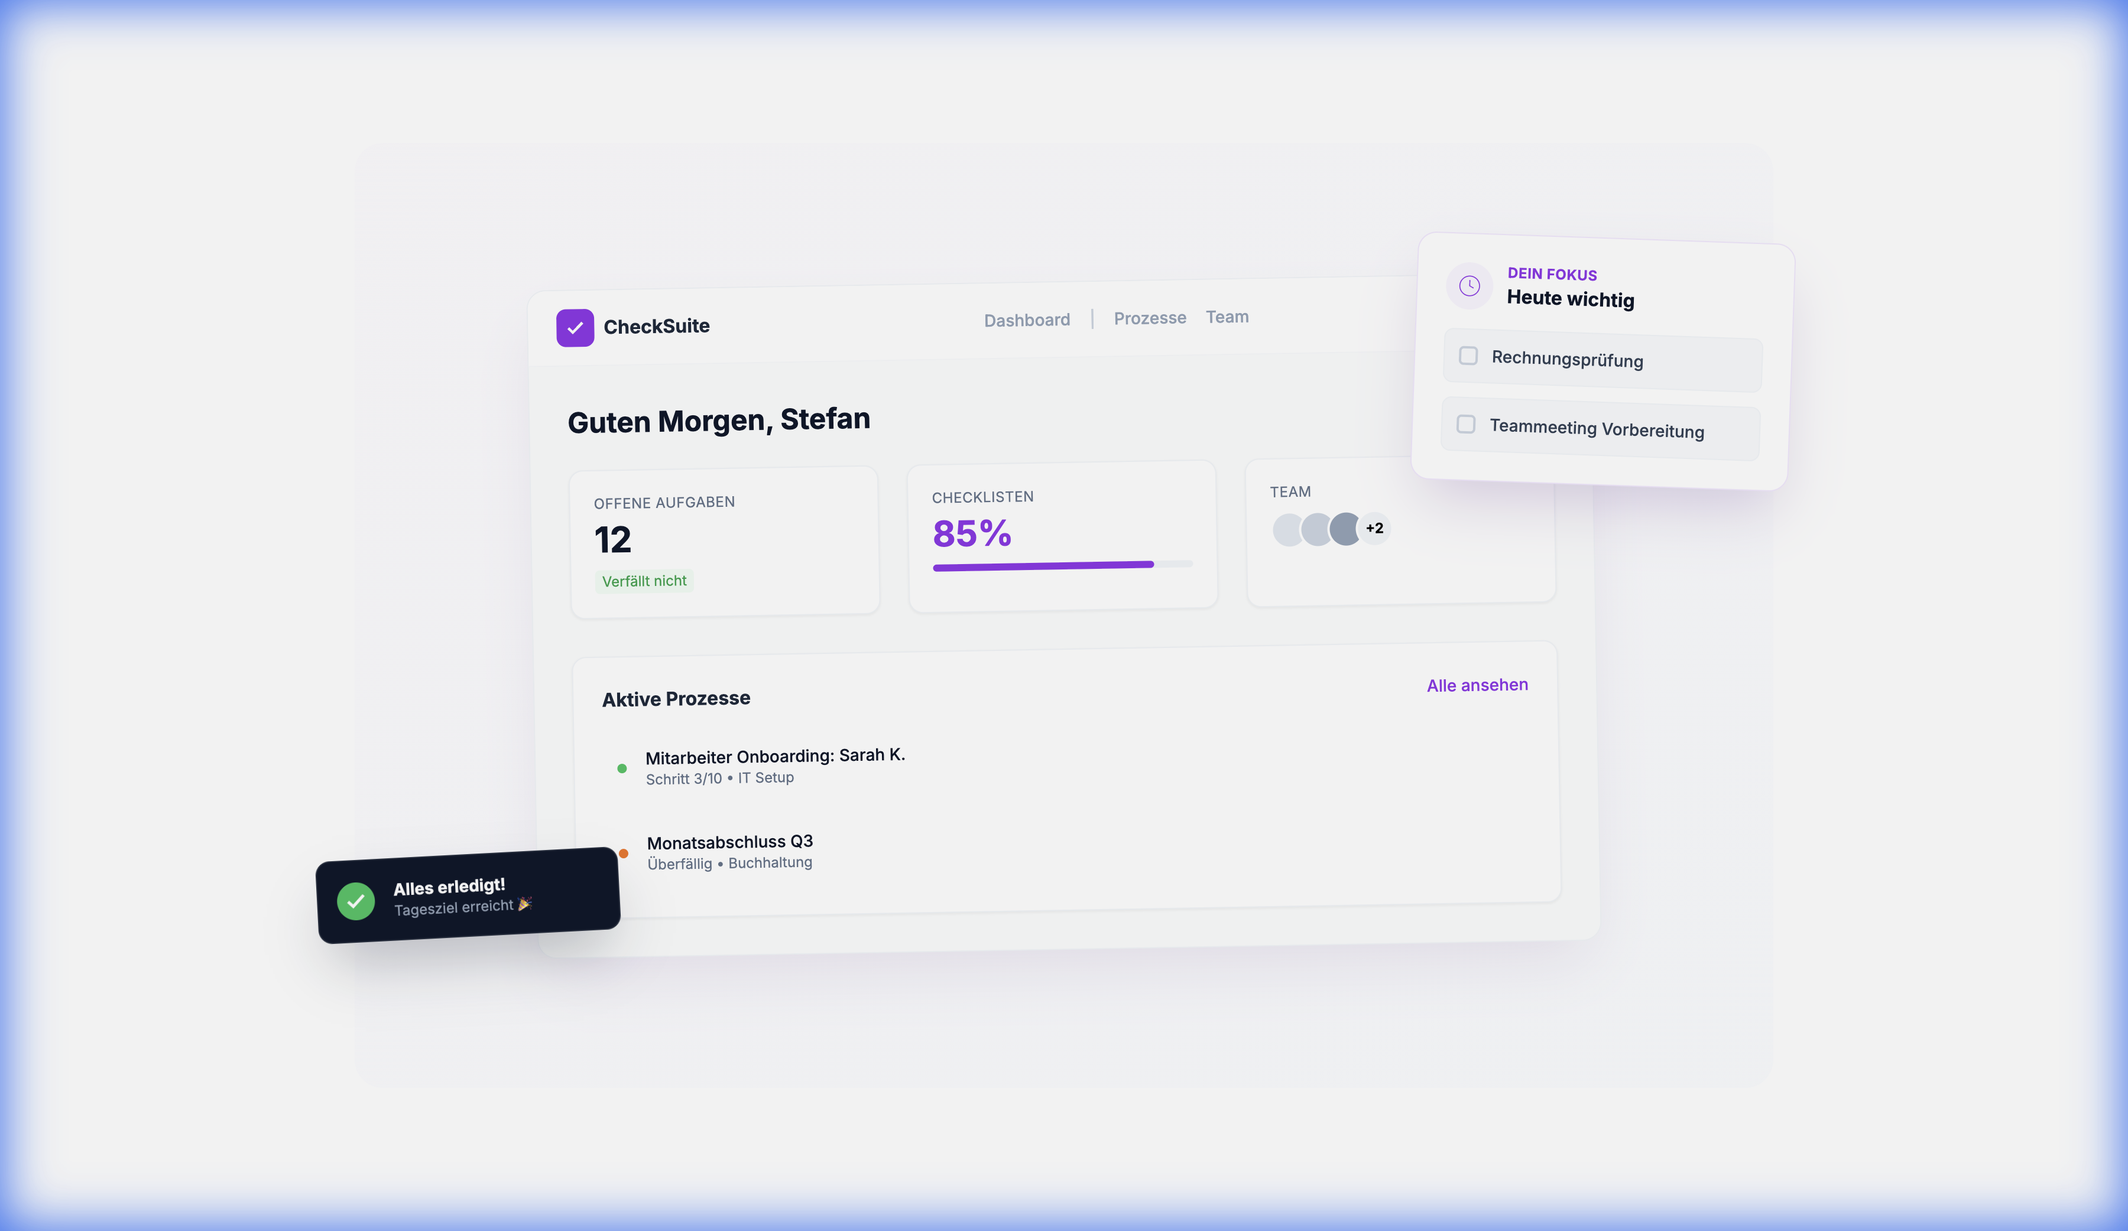
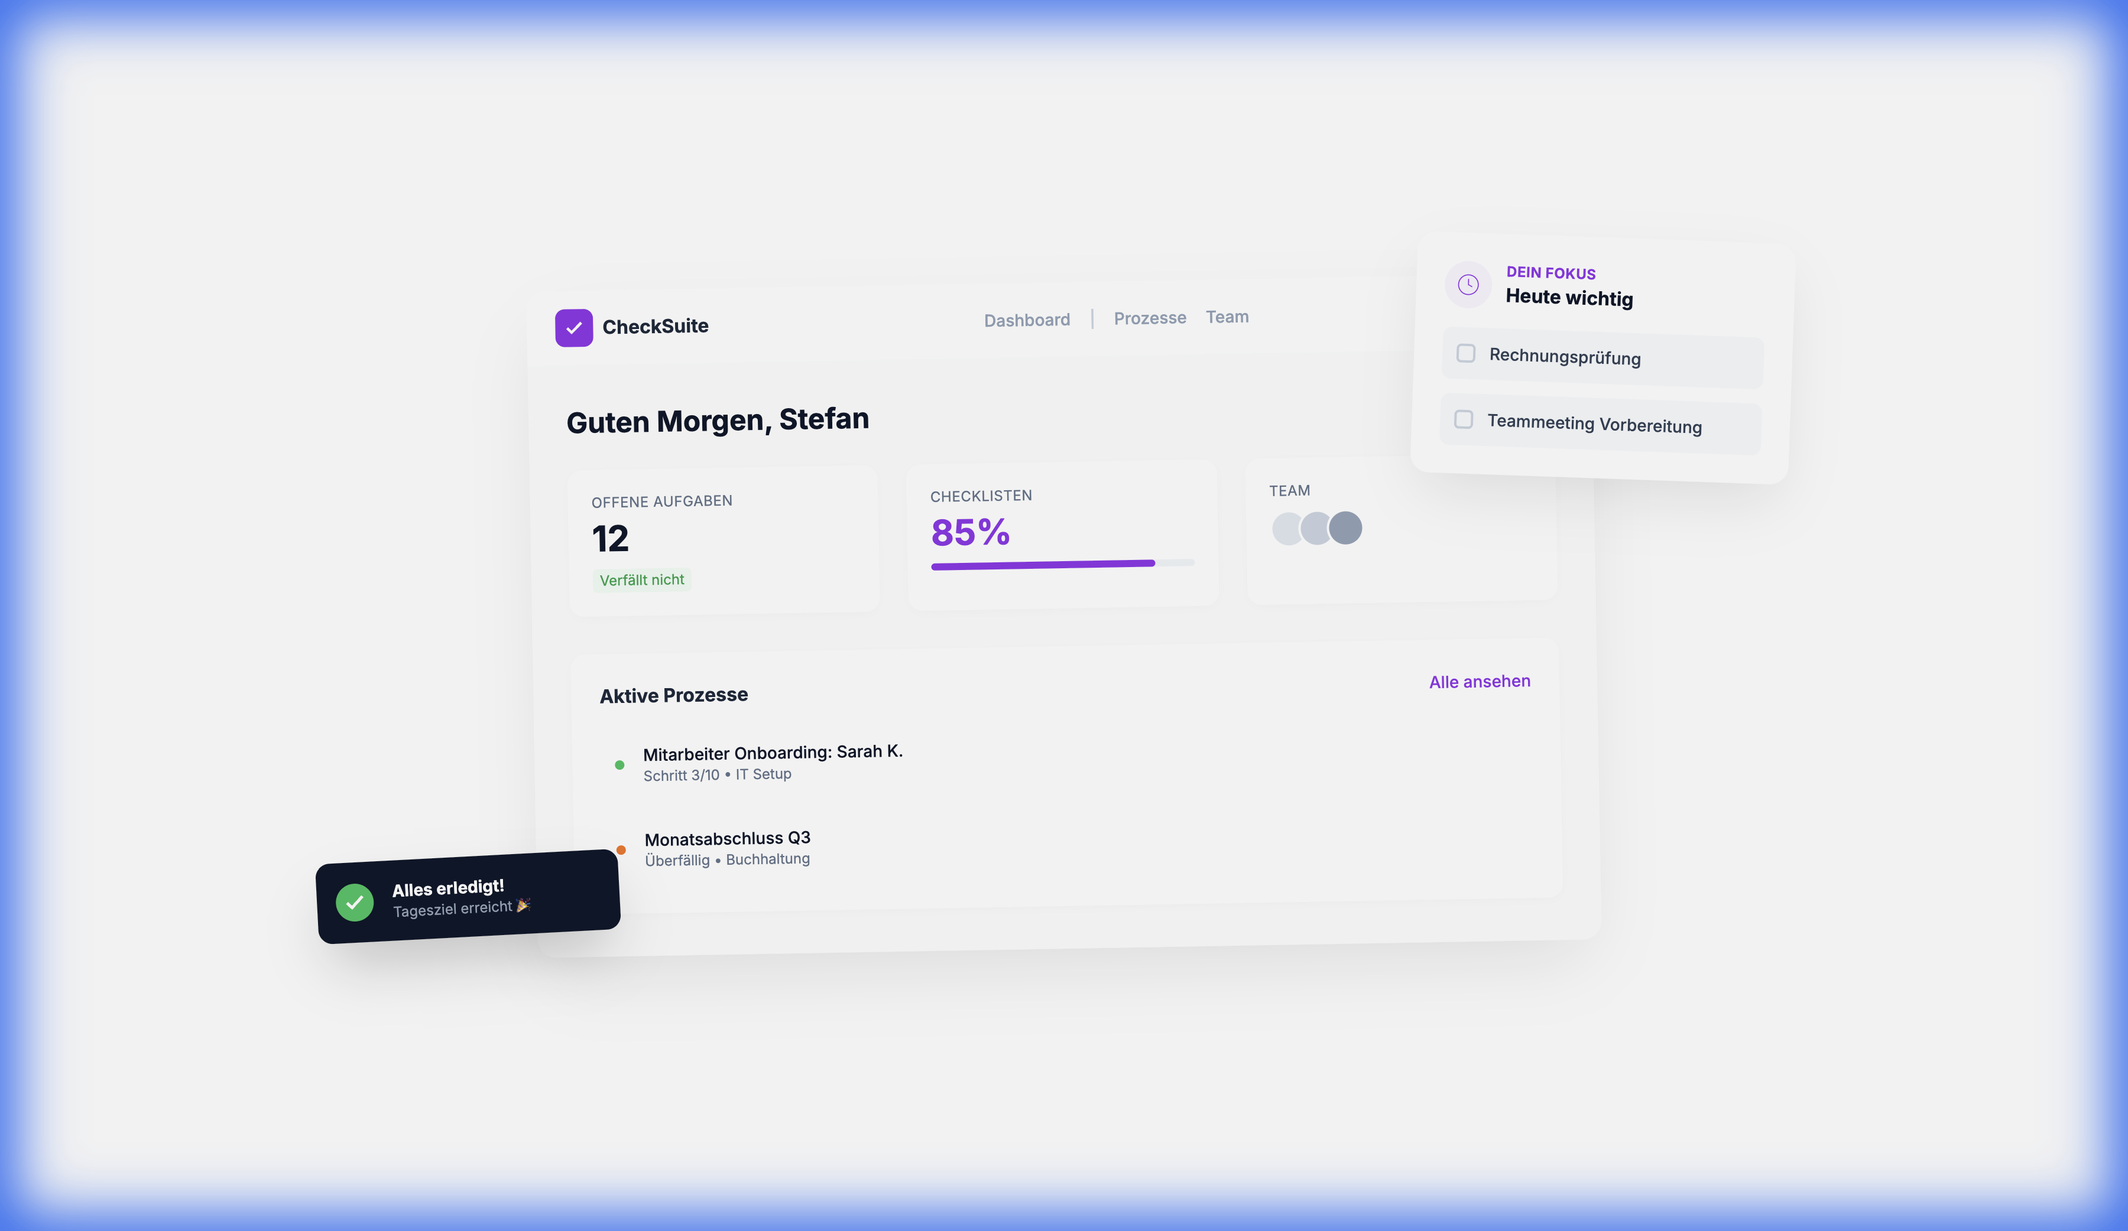
Final Polish: Strictly borderless SaaS visuals

diff --git a/public/scene_hero.html b/public/scene_hero.html
@@ -1,0 +1,153 @@
+<!DOCTYPE html>
+<html lang="de">
+
+<head>
+    <meta charset="UTF-8">
+    <meta name="viewport" content="width=1440, initial-scale=1.0">
+    <script src="https://cdn.tailwindcss.com"></script>
+    <link href="https://fonts.googleapis.com/css2?family=Inter:wght@400;500;600;700&display=swap" rel="stylesheet">
+    <style>
+        body {
+            font-family: 'Inter', sans-serif;
+        }
+
+        .glass {
+            background: rgba(255, 255, 255, 0.7);
+            backdrop-filter: blur(10px);
+        }
+    </style>
+</head>
+
+<body class="bg-white h-screen flex items-center justify-center overflow-hidden">
+
+    <!-- Scene Container -->
+    <div class="relative w-[1200px] h-[800px] flex items-center justify-center">
+
+        <!-- Main Dashboard Card - STRICTLY NO BORDER, Minimal Shadow -->
+        <div
+            class="relative w-[900px] bg-white rounded-2xl shadow-[0_25px_60px_-15px_rgba(0,0,0,0.1)] overflow-hidden transform -rotate-1 transition-transform">
+            <!-- Header -->
+            <div class="h-16 flex items-center px-6 justify-between bg-white border-b border-slate-50/50">
+                <div class="flex items-center gap-2">
+                    <div class="w-8 h-8 bg-purple-600 rounded-lg flex items-center justify-center text-white font-bold">
+                        <svg width="18" height="18" viewBox="0 0 24 24" fill="none" stroke="currentColor"
+                            stroke-width="3">
+                            <polyline points="20 6 9 17 4 12"></polyline>
+                        </svg>
+                    </div>
+                    <span class="font-bold text-slate-800">CheckSuite</span>
+                </div>
+                <div class="flex gap-4 text-sm font-medium text-slate-400">
+                    <span>Dashboard</span>
+                    <span class="text-slate-300">|</span>
+                    <span>Prozesse</span>
+                    <span>Team</span>
+                </div>
+                <div class="w-8 h-8 rounded-full bg-slate-100"></div>
+            </div>
+
+            <!-- Dashboard Content -->
+            <div class="p-8 bg-[#fafafa]/50 min-h-[500px]">
+                <h2 class="text-2xl font-bold text-slate-900 mb-6">Guten Morgen, Stefan</h2>
+
+                <div class="grid grid-cols-3 gap-6 mb-8">
+                    <!-- Stat 1 -->
+                    <div class="bg-white p-5 rounded-xl shadow-[0_2px_10px_-5px_rgba(0,0,0,0.05)]">
+                        <p class="text-xs text-slate-500 uppercase tracking-wide mb-1">Offene Aufgaben</p>
+                        <p class="text-3xl font-bold text-slate-900">12</p>
+                        <div class="mt-2 text-xs text-green-600 flex items-center gap-1">
+                            <span class="bg-green-50 px-1.5 py-0.5 rounded">Verfällt nicht</span>
+                        </div>
+                    </div>
+                    <!-- Stat 2 -->
+                    <div class="bg-white p-5 rounded-xl shadow-[0_2px_10px_-5px_rgba(0,0,0,0.05)]">
+                        <p class="text-xs text-slate-500 uppercase tracking-wide mb-1">Checklisten</p>
+                        <p class="text-3xl font-bold text-purple-600">85%</p>
+                        <div class="mt-2 w-full bg-slate-100 h-1.5 rounded-full overflow-hidden">
+                            <div class="bg-purple-600 w-[85%] h-full rounded-full"></div>
+                        </div>
+                    </div>
+                    <!-- Stat 3 -->
+                    <div class="bg-white p-5 rounded-xl shadow-[0_2px_10px_-5px_rgba(0,0,0,0.05)]">
+                        <p class="text-xs text-slate-500 uppercase tracking-wide mb-1">Team</p>
+                        <div class="flex -space-x-2 mt-2">
+                            <div class="w-8 h-8 rounded-full bg-slate-200 border-2 border-white"></div>
+                            <div class="w-8 h-8 rounded-full bg-slate-300 border-2 border-white"></div>
+                            <div class="w-8 h-8 rounded-full bg-slate-400 border-2 border-white"></div>
+                        </div>
+                    </div>
+                </div>
+
+                <div class="bg-white rounded-xl shadow-[0_2px_10px_-5px_rgba(0,0,0,0.05)] p-6">
+                    <div class="flex items-center justify-between mb-4">
+                        <h3 class="font-bold text-slate-800">Aktive Prozesse</h3>
+                        <button class="text-purple-600 text-sm font-medium">Alle ansehen</button>
+                    </div>
+                    <div class="space-y-3">
+                        <div
+                            class="flex items-center p-3 hover:bg-slate-50 rounded-lg transition-colors cursor-pointer group">
+                            <div class="w-2 h-2 rounded-full bg-green-500 mr-4"></div>
+                            <div class="flex-1">
+                                <p class="text-sm font-medium text-slate-900">Mitarbeiter Onboarding: Sarah K.</p>
+                                <p class="text-xs text-slate-500">Schritt 3/10 • IT Setup</p>
+                            </div>
+                        </div>
+                        <div
+                            class="flex items-center p-3 hover:bg-slate-50 rounded-lg transition-colors cursor-pointer group">
+                            <div class="w-2 h-2 rounded-full bg-orange-500 mr-4"></div>
+                            <div class="flex-1">
+                                <p class="text-sm font-medium text-slate-900">Monatsabschluss Q3</p>
+                                <p class="text-xs text-slate-500">Überfällig • Buchhaltung</p>
+                            </div>
+                        </div>
+                    </div>
+                </div>
+            </div>
+        </div>
+
+        <!-- Floating Item 1: Focus Card (Right) -->
+        <div
+            class="absolute top-20 -right-4 bg-white p-6 rounded-2xl shadow-[0_20px_50px_-10px_rgba(0,0,0,0.1)] w-80 transform rotate-2">
+            <div class="flex items-center gap-3 mb-4">
+                <div class="w-10 h-10 rounded-full bg-purple-50 flex items-center justify-center text-purple-600">
+                    <svg class="w-5 h-5" fill="none" stroke="currentColor" viewBox="0 0 24 24">
+                        <circle cx="12" cy="12" r="10"></circle>
+                        <polyline points="12 6 12 12 16 14"></polyline>
+                    </svg>
+                </div>
+                <div>
+                    <p class="text-xs font-bold text-purple-600 uppercase tracking-wide">Dein Fokus</p>
+                    <p class="font-bold text-slate-900">Heute wichtig</p>
+                </div>
+            </div>
+            <div class="space-y-3">
+                <div class="flex items-center gap-3 p-3 bg-slate-50 rounded-lg">
+                    <div class="w-4 h-4 rounded border-2 border-slate-300"></div>
+                    <span class="text-sm font-medium text-slate-700">Rechnungsprüfung</span>
+                </div>
+                <div class="flex items-center gap-3 p-3 bg-slate-50 rounded-lg">
+                    <div class="w-4 h-4 rounded border-2 border-slate-300"></div>
+                    <span class="text-sm font-medium text-slate-700">Teammeeting Vorbereitung</span>
+                </div>
+            </div>
+        </div>
+
+        <!-- Floating Item 2: Success Toast (Bottom Left) -->
+        <div
+            class="absolute bottom-32 -left-8 bg-slate-900 text-white p-4 rounded-xl shadow-2xl w-64 flex items-center gap-4 transform -rotate-3">
+            <div class="w-8 h-8 bg-green-500 rounded-full flex items-center justify-center text-white">
+                <svg class="w-5 h-5" fill="none" stroke="currentColor" viewBox="0 0 24 24" stroke-width="3">
+                    <polyline points="20 6 9 17 4 12"></polyline>
+                </svg>
+            </div>
+            <div>
+                <p class="text-sm font-bold">Alles erledigt!</p>
+                <p class="text-xs text-slate-400">Tagesziel erreicht 🎉</p>
+            </div>
+        </div>
+
+    </div>
+
+</body>
+
+</html>

diff --git a/public/scene_checklist.html b/public/scene_checklist.html
@@ -1,0 +1,110 @@
+<!DOCTYPE html>
+<html lang="de">
+
+<head>
+    <meta charset="UTF-8">
+    <meta name="viewport" content="width=1440, initial-scale=1.0">
+    <script src="https://cdn.tailwindcss.com"></script>
+    <link href="https://fonts.googleapis.com/css2?family=Inter:wght@400;500;600;700&display=swap" rel="stylesheet">
+    <style>
+        body {
+            font-family: 'Inter', sans-serif;
+        }
+    </style>
+</head>
+
+<body class="bg-white h-screen flex items-center justify-center overflow-hidden">
+
+    <!-- Scene Container -->
+    <div class="relative w-[1000px] h-[800px] flex items-center justify-center">
+
+        <!-- Main List Card - STRICTLY NO BORDER, Minimal Shadow -->
+        <div class="relative w-[600px] bg-white rounded-2xl shadow-[0_25px_60px_-15px_rgba(0,0,0,0.1)] overflow-hidden">
+
+            <!-- Progress Header -->
+            <div class="p-6 bg-[#fafafa]/30">
+                <div class="flex justify-between items-end mb-2">
+                    <div>
+                        <span class="text-xs font-bold text-slate-400 uppercase tracking-wide">Onboarding Prozess</span>
+                        <h2 class="text-xl font-bold text-slate-900 mt-1">Neue Mitarbeiter: Peter M.</h2>
+                    </div>
+                    <div class="text-right">
+                        <span class="text-2xl font-bold text-purple-600">60%</span>
+                    </div>
+                </div>
+                <div class="w-full h-2 bg-slate-100 rounded-full overflow-hidden">
+                    <div class="w-[60%] h-full bg-purple-600 rounded-full"></div>
+                </div>
+            </div>
+
+            <!-- List Items -->
+            <div class="p-6 space-y-4">
+
+                <!-- Completed Item (Faded) -->
+                <div class="flex items-center gap-4 p-4 rounded-xl bg-slate-50/50 opacity-60">
+                    <div class="w-6 h-6 bg-purple-100 text-purple-600 rounded flex items-center justify-center">
+                        <svg class="w-4 h-4" fill="none" stroke="currentColor" viewBox="0 0 24 24" stroke-width="3">
+                            <polyline points="20 6 9 17 4 12"></polyline>
+                        </svg>
+                    </div>
+                    <span class="font-medium text-slate-500 line-through">Vertrag unterzeichnen</span>
+                </div>
+
+                <!-- Completed Item (Faded) -->
+                <div class="flex items-center gap-4 p-4 rounded-xl bg-slate-50/50 opacity-60">
+                    <div class="w-6 h-6 bg-purple-100 text-purple-600 rounded flex items-center justify-center">
+                        <svg class="w-4 h-4" fill="none" stroke="currentColor" viewBox="0 0 24 24" stroke-width="3">
+                            <polyline points="20 6 9 17 4 12"></polyline>
+                        </svg>
+                    </div>
+                    <span class="font-medium text-slate-500 line-through">IT-Hardware bestellen</span>
+                </div>
+
+                <!-- ACTIVE FOCUS ITEM (Popped Out) - NO BORDER, Shadow only -->
+                <div
+                    class="relative flex items-start gap-4 p-6 rounded-xl bg-white shadow-[0_20px_40px_-10px_rgba(0,0,0,0.1)] transform scale-105 z-10 -mx-4">
+                    <div class="absolute left-0 top-4 bottom-4 w-1 bg-purple-500 rounded-r-full"></div>
+                    <div class="w-6 h-6 border-2 border-purple-500 rounded flex items-center justify-center mt-0.5">
+                    </div>
+                    <div class="flex-1">
+                        <h3 class="font-bold text-slate-900 text-lg">Zugangsdaten versenden</h3>
+                        <p class="text-slate-500 text-sm mt-1 leading-relaxed">Sende die Willkommens-Email mit
+                            Login-Daten für CheckSuite und Slack. <a href="#"
+                                class="text-purple-600 font-medium hover:underline">Vorlage öffnen</a></p>
+
+                        <div class="flex gap-2 mt-3">
+                            <span
+                                class="px-2 py-1 bg-purple-50 text-purple-700 rounded text-xs font-semibold">Priorität:
+                                Hoch</span>
+                            <span class="px-2 py-1 bg-slate-100 text-slate-600 rounded text-xs font-semibold">IT
+                                Support</span>
+                        </div>
+                    </div>
+                    <div class="flex -space-x-2">
+                        <div
+                            class="w-8 h-8 rounded-full bg-blue-100 border-2 border-white flex items-center justify-center text-xs font-bold text-blue-600">
+                            PM</div>
+                    </div>
+                </div>
+
+                <!-- Upcoming Item -->
+                <div class="flex items-center gap-4 p-4 rounded-xl hover:bg-slate-50 transition-colors">
+                    <div class="w-6 h-6 border-2 border-slate-200 rounded"></div>
+                    <span class="font-medium text-slate-700">Team-Intro im Weekly</span>
+                </div>
+            </div>
+        </div>
+
+        <!-- Floating Decoration: Check Icon -->
+        <div
+            class="absolute top-1/2 -right-12 bg-green-500 text-white p-3 rounded-2xl shadow-lg border-4 border-white transform rotate-12">
+            <svg class="w-8 h-8" fill="none" stroke="currentColor" viewBox="0 0 24 24" stroke-width="4">
+                <polyline points="20 6 9 17 4 12"></polyline>
+            </svg>
+        </div>
+
+    </div>
+
+</body>
+
+</html>

diff --git a/public/scene_task.html b/public/scene_task.html
@@ -1,0 +1,98 @@
+<!DOCTYPE html>
+<html lang="de">
+
+<head>
+    <meta charset="UTF-8">
+    <meta name="viewport" content="width=1440, initial-scale=1.0">
+    <script src="https://cdn.tailwindcss.com"></script>
+    <link href="https://fonts.googleapis.com/css2?family=Inter:wght@400;500;600;700&display=swap" rel="stylesheet">
+    <style>
+        body {
+            font-family: 'Inter', sans-serif;
+        }
+    </style>
+</head>
+
+<body class="bg-white h-screen flex items-center justify-center overflow-hidden">
+
+    <!-- Scene Container -->
+    <div class="relative w-[800px] h-[600px] flex items-center justify-center">
+
+        <!-- Task Card - STRICTLY NO BORDER, Minimal Shadow -->
+        <div class="relative w-[500px] bg-white rounded-2xl shadow-[0_25px_60px_-15px_rgba(0,0,0,0.1)] p-8 z-10">
+            <div class="flex justify-between items-start mb-6">
+                <span
+                    class="bg-red-50 text-red-600 px-3 py-1 rounded-full text-xs font-bold uppercase tracking-wide">Fällig:
+                    Heute</span>
+                <div class="flex gap-1">
+                    <div class="w-2 h-2 rounded-full bg-slate-300"></div>
+                    <div class="w-2 h-2 rounded-full bg-slate-300"></div>
+                </div>
+            </div>
+
+            <h2 class="text-2xl font-bold text-slate-900 mb-2 leading-tight">Quartalsbericht Q4 finalisieren</h2>
+            <p class="text-slate-500 mb-8 leading-relaxed">Bitte alle offenen Posten aus Abteilung Marketing hinzufügen
+                und Diagramme aktualisieren.</p>
+
+            <div class="space-y-4">
+                <!-- Subtask 1 (Checked) -->
+                <div class="flex items-center gap-3 p-3 rounded-lg bg-slate-50 opacity-70">
+                    <div class="w-5 h-5 bg-purple-600 rounded flex items-center justify-center text-white">
+                        <svg class="w-3.5 h-3.5" fill="none" stroke="currentColor" viewBox="0 0 24 24" stroke-width="3">
+                            <polyline points="20 6 9 17 4 12"></polyline>
+                        </svg>
+                    </div>
+                    <span class="text-sm font-medium text-slate-600 line-through">Datenexport aus DATEV</span>
+                </div>
+
+                <!-- Subtask 2 (Active) -->
+                <div class="flex items-center gap-3 p-3 rounded-lg bg-white shadow-sm ring-1 ring-slate-100">
+                    <div class="w-5 h-5 border-2 border-purple-500 rounded"></div>
+                    <span class="text-sm font-bold text-slate-900">PDF Generierung prüfen</span>
+                </div>
+            </div>
+
+            <div class="mt-8 pt-6 border-t border-slate-50 flex justify-between items-center">
+                <div class="flex -space-x-2">
+                    <div
+                        class="w-8 h-8 rounded-full bg-blue-100 border-2 border-white flex items-center justify-center text-xs font-bold text-blue-600">
+                        TM</div>
+                    <div
+                        class="w-8 h-8 rounded-full bg-green-100 border-2 border-white flex items-center justify-center text-xs font-bold text-green-600">
+                        SK</div>
+                </div>
+                <button
+                    class="bg-slate-900 text-white px-4 py-2 rounded-lg text-sm font-medium shadow-lg shadow-slate-900/20 hover:bg-slate-800 transition-colors">Erledigen</button>
+            </div>
+        </div>
+
+        <!-- Floating Attachment Card (Front) - NO BORDER, Soft Shadow -->
+        <div
+            class="absolute -bottom-6 -right-12 bg-white p-4 rounded-xl shadow-[0_20px_40px_-10px_rgba(0,0,0,0.1)] flex items-center gap-4 w-60 transform rotate-3 z-20 hover:scale-105 transition-transform duration-500">
+            <div class="w-10 h-10 bg-red-50 rounded-lg flex items-center justify-center text-red-500">
+                <svg class="w-6 h-6" fill="none" stroke="currentColor" viewBox="0 0 24 24">
+                    <path d="M14 2H6a2 2 0 0 0-2 2v16a2 2 0 0 0 2 2h12a2 2 0 0 0 2-2V8z"></path>
+                    <polyline points="14 2 14 8 20 8"></polyline>
+                    <line x1="16" y1="13" x2="8" y2="13"></line>
+                    <line x1="16" y1="17" x2="8" y2="17"></line>
+                    <polyline points="10 9 9 9 8 9"></polyline>
+                </svg>
+            </div>
+            <div>
+                <p class="text-sm font-bold text-slate-900">Report_Q4.pdf</p>
+                <p class="text-xs text-slate-400">2.4 MB • PDF</p>
+            </div>
+        </div>
+
+        <!-- Floating Avatar Bubble (Top Left) -->
+        <div
+            class="absolute top-10 -left-8 bg-white px-4 py-2 rounded-full shadow-lg flex items-center gap-2 transform -rotate-6 z-0">
+            <div class="w-2 h-2 rounded-full bg-green-500 animate-pulse"></div>
+            <span class="text-xs font-bold text-slate-600">Sarah tippt...</span>
+        </div>
+
+    </div>
+
+</body>
+
+</html>
